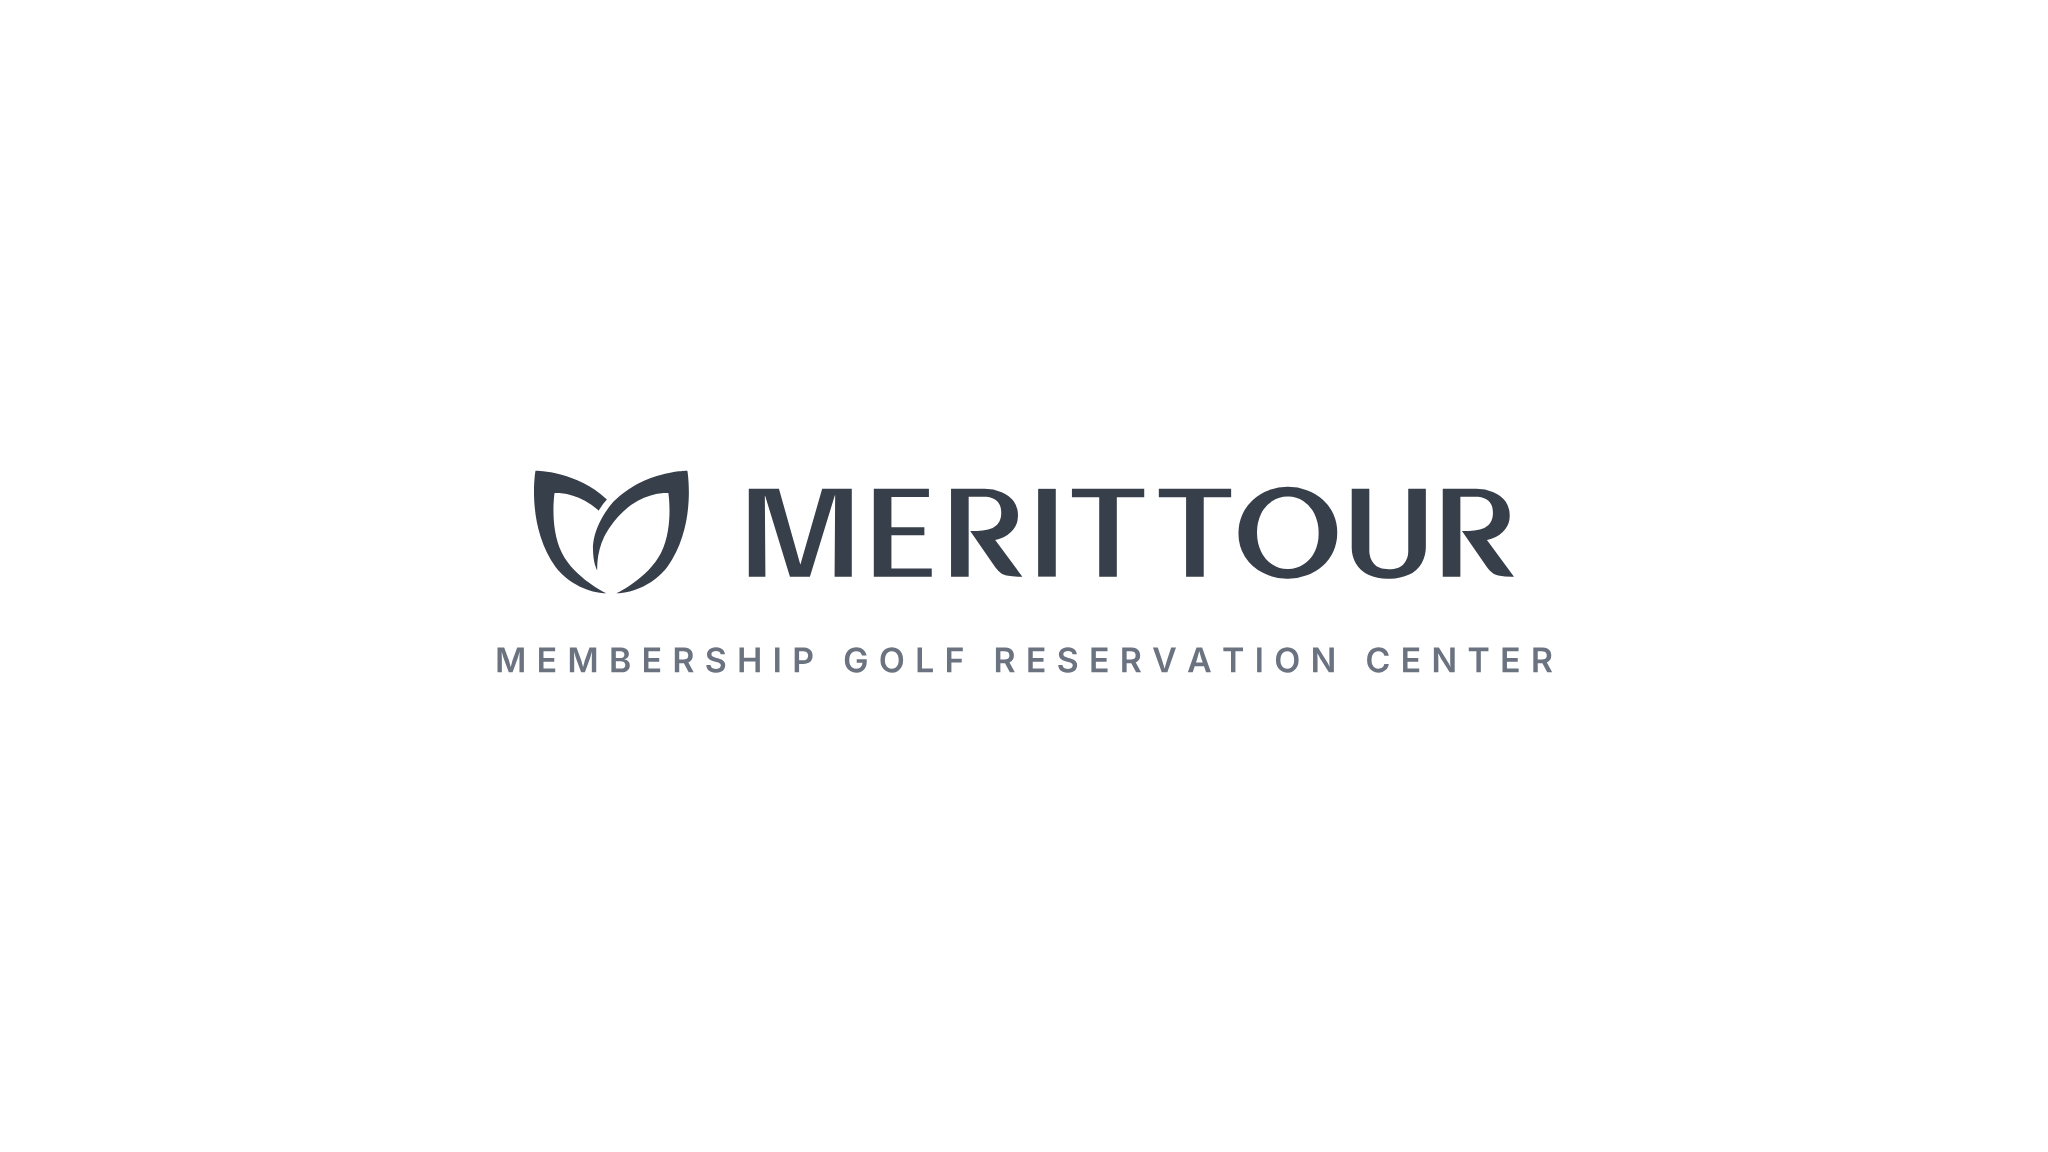
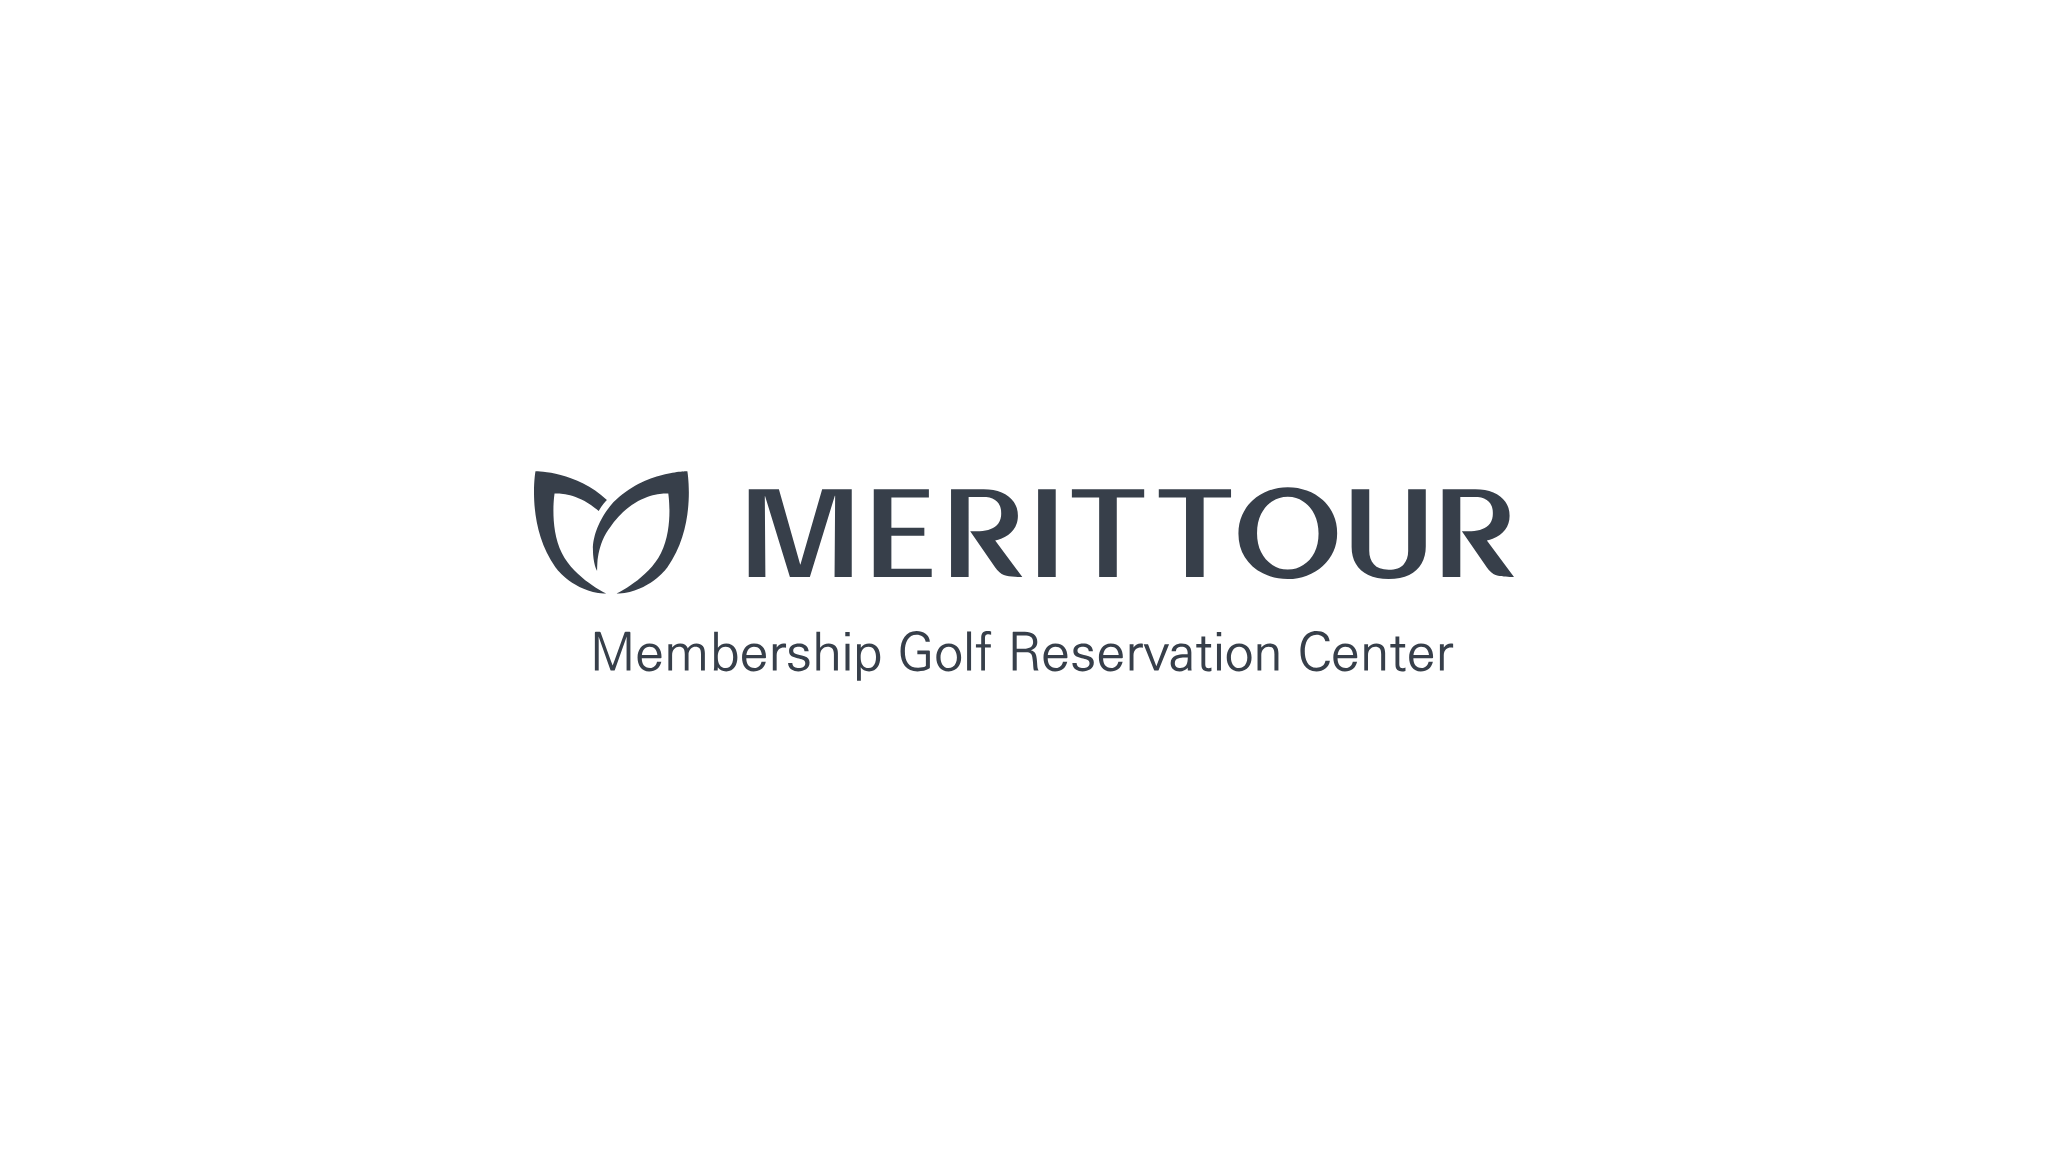
배너를 출입구 간판과 같은 로고·문구로 다시 만든다 (#148)
간판(v1.3)이 올라오면서 정본이 생겼다. 배너의 문구는 제가 Inter 로 짜 맞춘
대문자 자간 글씨였는데, 간판은 「Membership Golf Reservation Center」를
소문자 섞어 쓴다. 같은 회사 자료 둘이 서로 다른 글씨를 쓰고 있었다.

간판 SVG 에서 로고와 문구 도형을 그대로 떼어다 배너에 놓았다. 이제 두 곳의
글자 모양이 같다.

  간판에서 잰 값   로고 387.55 × 48.35mm · 문구 339.41 × 19.68mm
                   문구 폭 = 로고 폭의 87.6% · 사이 14.8mm
  배너로 옮기면    로고 980 × 122 · 문구 858 × 50 · 간격 37
                   블록 980 × 209 — 안전 영역 1235 × 338 안

간판에서는 문구가 8mm 오른쪽이었는데, 배너에서는 로고·문구를 각각 가로
정중앙에 놓았다(둘 다 중심 1024). 간판은 인쇄가 걸려 있어 손대지 않았다.

네이비 바탕은 간판과 같은 #393E4D 로 맞췄다(브랜드 네이비 #373F4A 와 다르다).
간판이 그 색으로 나가는데 배너만 다른 네이비면 나란히 놓았을 때 티가 난다.

-nogolf 판은 지웠다. 어느 문구를 쓸지 몰라 둘 다 만들어 두었던 것인데,
간판이 GOLF 를 넣는 것으로 정해 주었다.

검증 — 로고·문구 중심 둘 다 1024(판 중심 1024), 블록이 안전 영역 안,
SVG 3개 모두 font-family·<text> 0건.

Claude-Session: https://claude.ai/code/session_01CsrANVbS6dHXTrrsVQfJ1f

Changed region(s): [[0.2188, 0.5312, 0.7812, 0.5938]]

diff --git a/assets/README.md b/assets/README.md
@@ -11,8 +11,7 @@
 | `logo-merittour-square-stacked.svg` · `-800.png` | **정사각 · 세로 조합** — 심볼 위, 워드마크 아래 |
 | `logo-merittour-square-horizontal.svg` · `-800.png` | **정사각 · 가로형** — 가로형을 그대로 정사각에 넣은 것 |
 
-| `banner-youtube-{white,beige,navy}.png` · `.svg` | **유튜브 배너** 2048×1152 · 로고 + MEMBERSHIP GOLF RESERVATION CENTER |
-| `banner-youtube-{white,beige,navy}-nogolf.png` · `.svg` | 같은 것, 문구에서 GOLF 를 뺀 판 |
+| `banner-youtube-{white,beige,navy}.png` · `.svg` | **유튜브 배너** 2048×1152 · 로고 + Membership Golf Reservation Center |
 
 | `sign-entrance-700x400-light.svg` | **사무실 출입구 간판** 700×400mm · 흰 바탕 (v1.3) |
 | `sign-entrance-700x400-navy.svg` | 같은 간판 · 네이비 바탕(`#393E4D`)에 흰 로고 |
@@ -54,9 +53,15 @@
 베이지는 라이트에서 배너로 읽히고 다크에서도 흰색만큼 튀지 않는다.
 네이비는 양쪽에서 다 안정적이다. 실제로 채널 화면을 흉내 내 놓고 비교한 결과다.
 
-**배너 문구는 도형(path)이다.** 폰트로 두면 그 폰트가 없는 PC 에서 다른 글씨체로
-나와 SVG 와 PNG 가 어긋난다. 문구를 고칠 때는 폰트를 넣고 다시 도형으로 만들어야
-한다(Inter SemiBold · 34px · 자간 0.30em).
+**배너의 로고·문구는 출입구 간판(`sign-entrance-700x400-light.svg`)에서 그대로
+가져온 것이다.** 간판과 배너의 글씨가 달라지면 같은 회사로 안 보인다. 크기 비율과
+사이 간격도 간판 그대로이고(문구 폭 = 로고 폭의 87.6%), 배너에서는 로고와 문구를
+각각 가로 정중앙에 놓았다.
+
+문구를 고칠 일이 생기면 **간판을 먼저 고치고 배너를 다시 뽑는다.** 반대로 하면
+간판이 옛 문구로 남는다. 글자는 도형이라 폰트가 없어도 어디서나 같게 보인다.
+
+배너 네이비 바탕은 간판과 같은 `#393E4D` 다(브랜드 네이비 `#373F4A` 와 다름).
 
 ## 정사각 자리에 로고 전체를 넣어야 할 때
 
